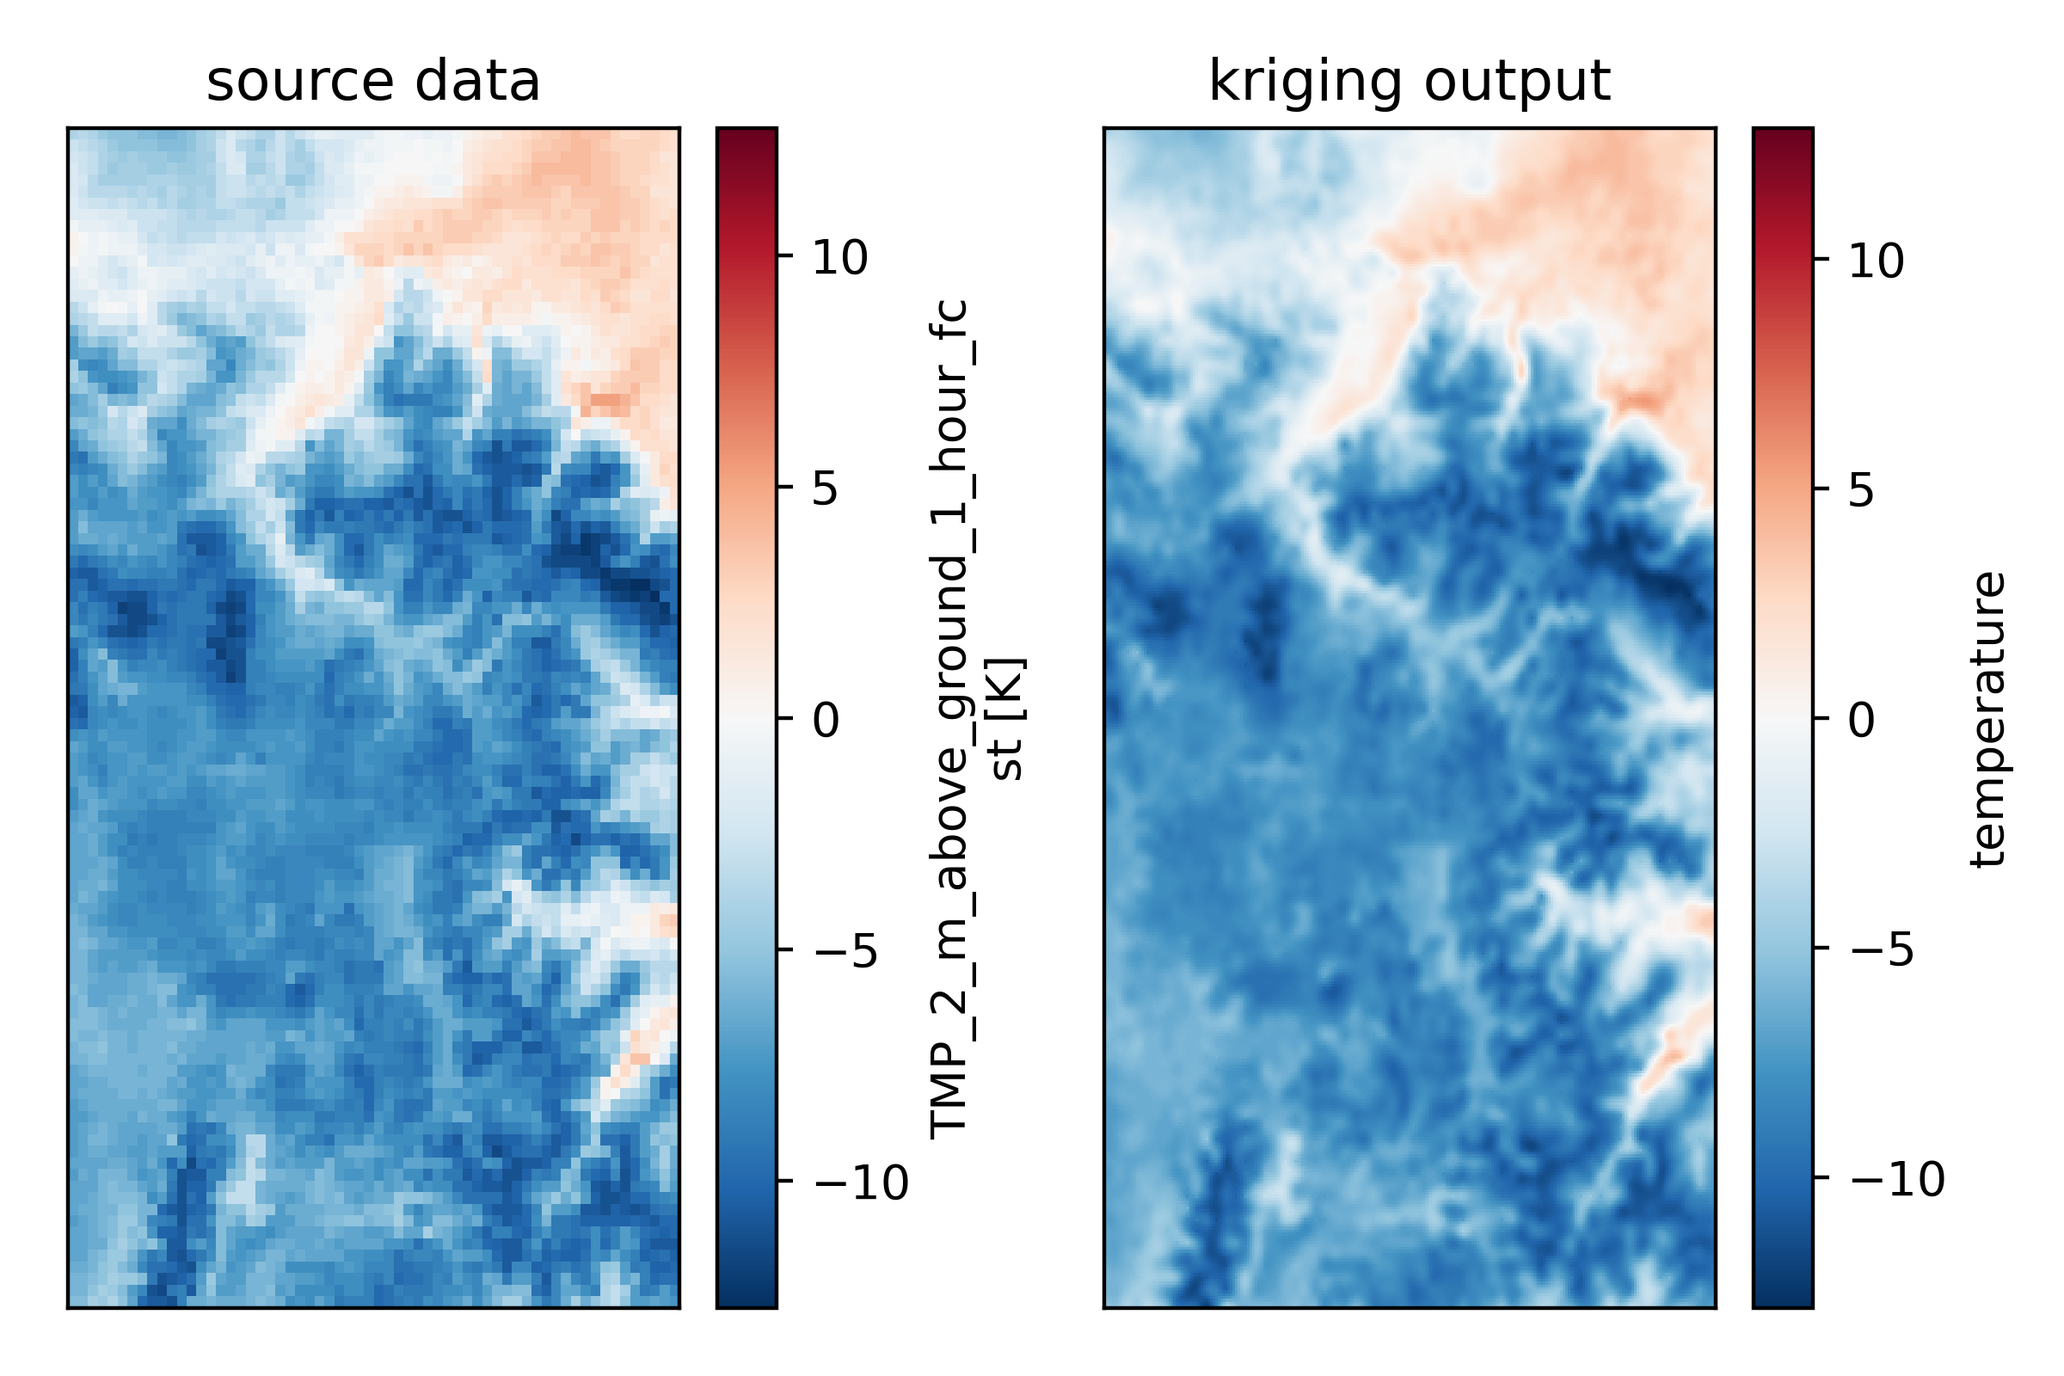
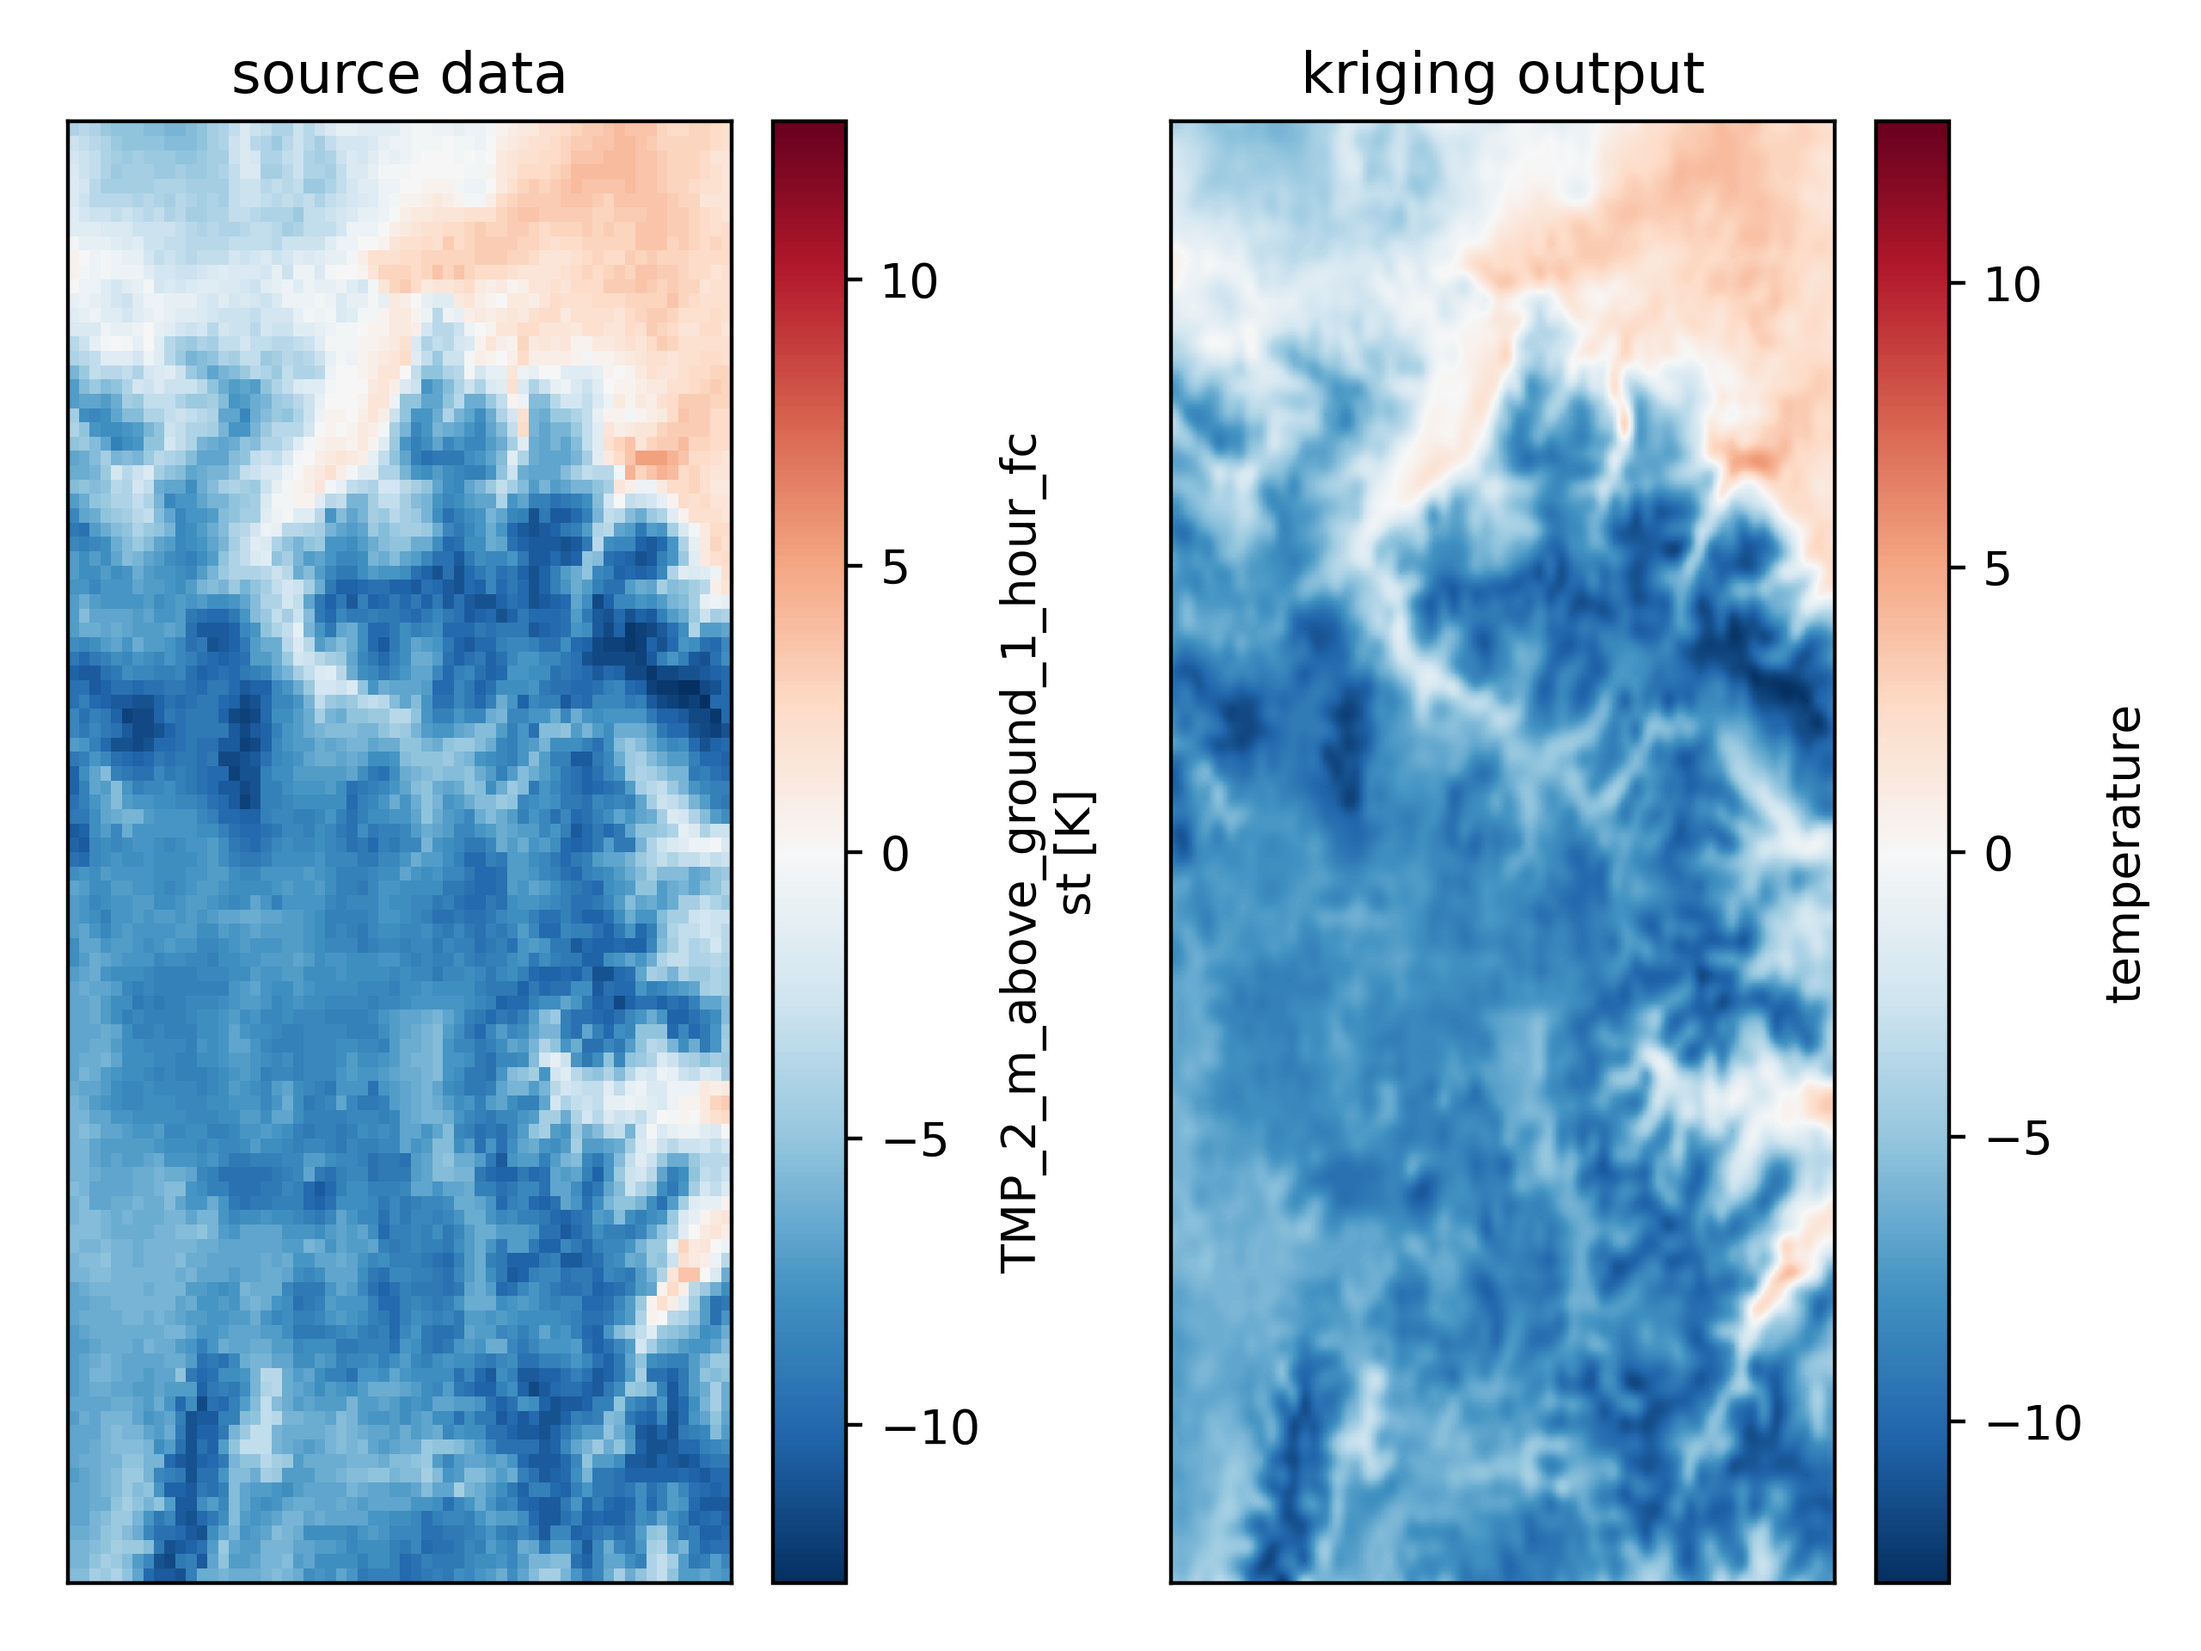
fixed typos and now demo higher downscaling factor

diff --git a/pkern_with_rpy2/4_run_kriging_simple.py b/pkern_with_rpy2/4_run_kriging_simple.py
@@ -197,8 +197,8 @@ Rvario = R.r['pkern_vario'](Rgsnap, Rsgdata)
 # from model fitting by setting a maximum distance "dmax" in the next
 # function call (with units meters).   
 
-# in R: fit a theoretical Matern X Matern variogram, excluding lags > 10km
-dmax = 10 * 1000
+# in R: fit a theoretical Matern X Matern variogram, excluding lags > 25km
+dmax = 25 * 1000
 Rpvario = R.r['pkern_vario_fit'](
     Rvario, 
     ypars='mat',
@@ -208,7 +208,7 @@ Rpvario = R.r['pkern_vario_fit'](
 # report fitted parameters then (in R) print variogram results to png file
 print(Rpvario)
 plotpars = R.r['setNames'](R.r['list'](dmax), 'dmax')
-R.r['png'](img_vario_path)
+R.r['png'](img_vario_path, height=600, width=800, units='px')
 R.r['pkern_vario_plot'](Rvario, Rpvario, plotpars=plotpars)
 R.r['dev.off']()
 
@@ -216,7 +216,7 @@ R.r['dev.off']()
 # %%
 '''------- run the kriging algorithm --------'''
 
-# in R: krig on first time slice, convert output directly to numpy array
+# in R: krig on all time slices, convert output directly to numpy array
 krig_result = np.array(R.r['run_krig'](Rsgdata, Rgsnap, Rpvario))
 
 # reshape into vectorization order expected by xarray

diff --git a/pkern_with_rpy2/3_make_target_grid.py b/pkern_with_rpy2/3_make_target_grid.py
@@ -10,7 +10,7 @@
 #
 # For this example I simply take the original temperature data grid
 # (pkern_examples/temperature_series.nc) and increase its resolution
-# by 4x.
+# by 10x.
 #
 # However the target grid can be configured however you like. In
 # another example script I'll show how to use an elevation raster
@@ -32,7 +32,7 @@ temperature_path = pkern_data_dir + '/temperature_series.nc'
 grid_out_path = pkern_data_dir + '/target_grid_simple.nc'
 
 # define a downscaling factor
-ds_fact = 4
+ds_fact = 10
 
 
 # %%
